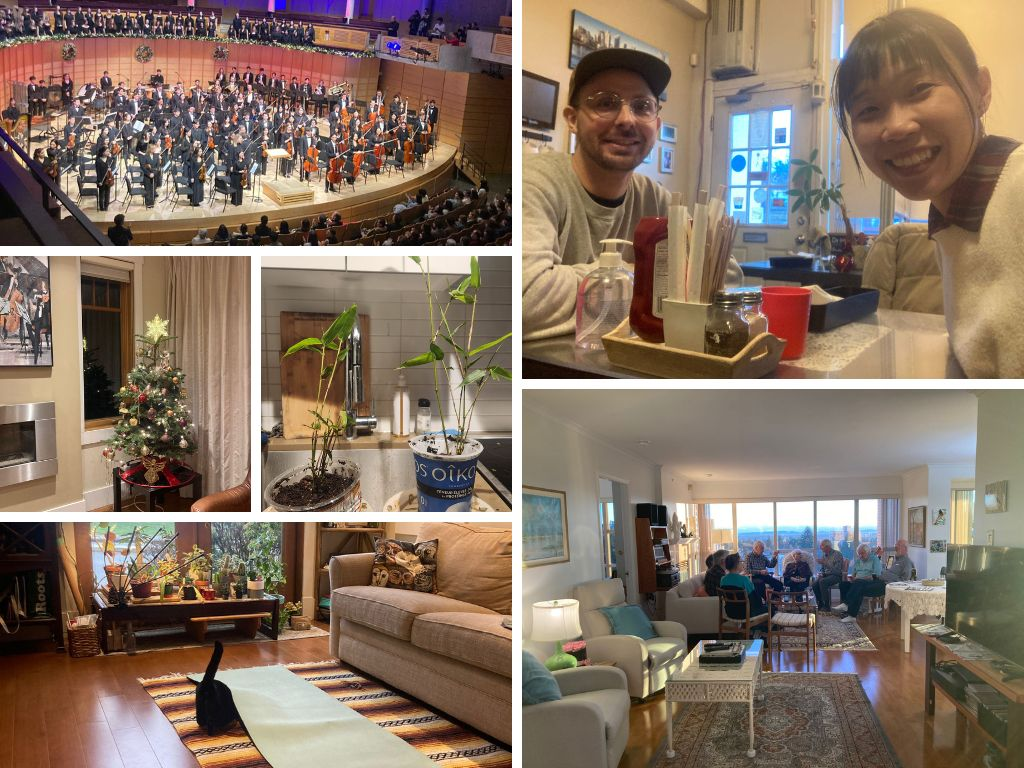
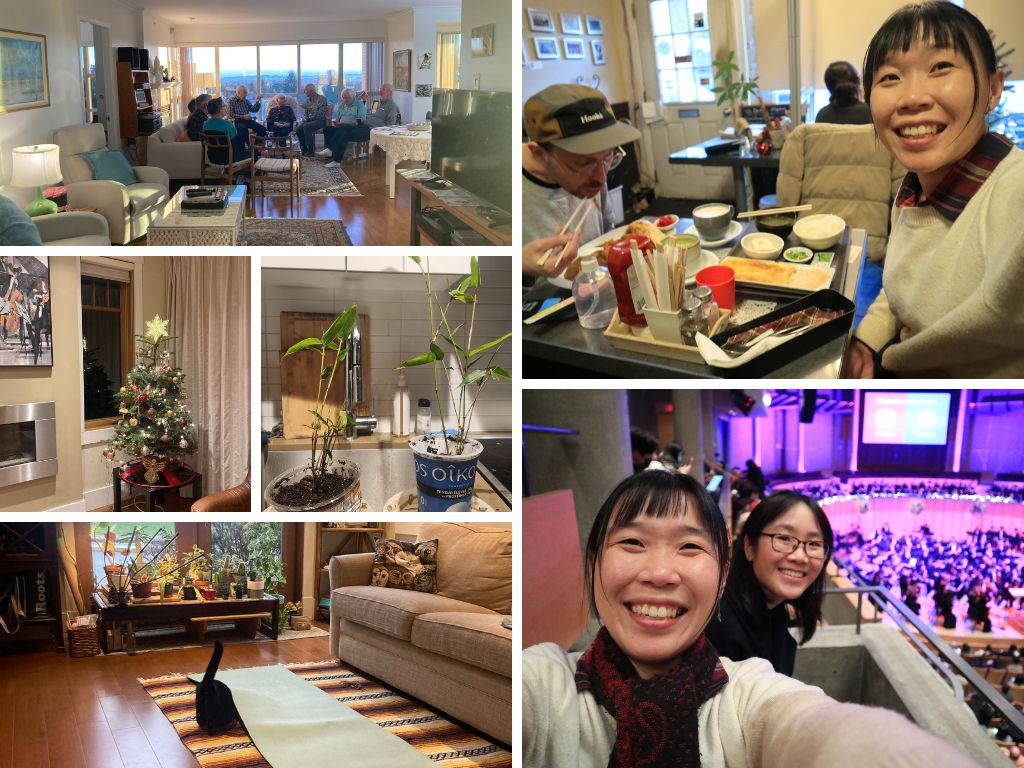
updated the photos with Gintas

diff --git a/content/blog_articles/20291231 Me with Gintas/index.md b/content/blog_articles/20291231 Me with Gintas/index.md
@@ -22,6 +22,8 @@ image:
 
 ### # 第 108 周 - 聖誕市集周 - 2025 Nov.30
 
+![](./week108/IMG_1111.jpg)
+
 ### # 第 107 周 - 喜歡你的原因 - 2025 Nov.23
 
 Gintas 說 "You are the person I want to spend my future with".
